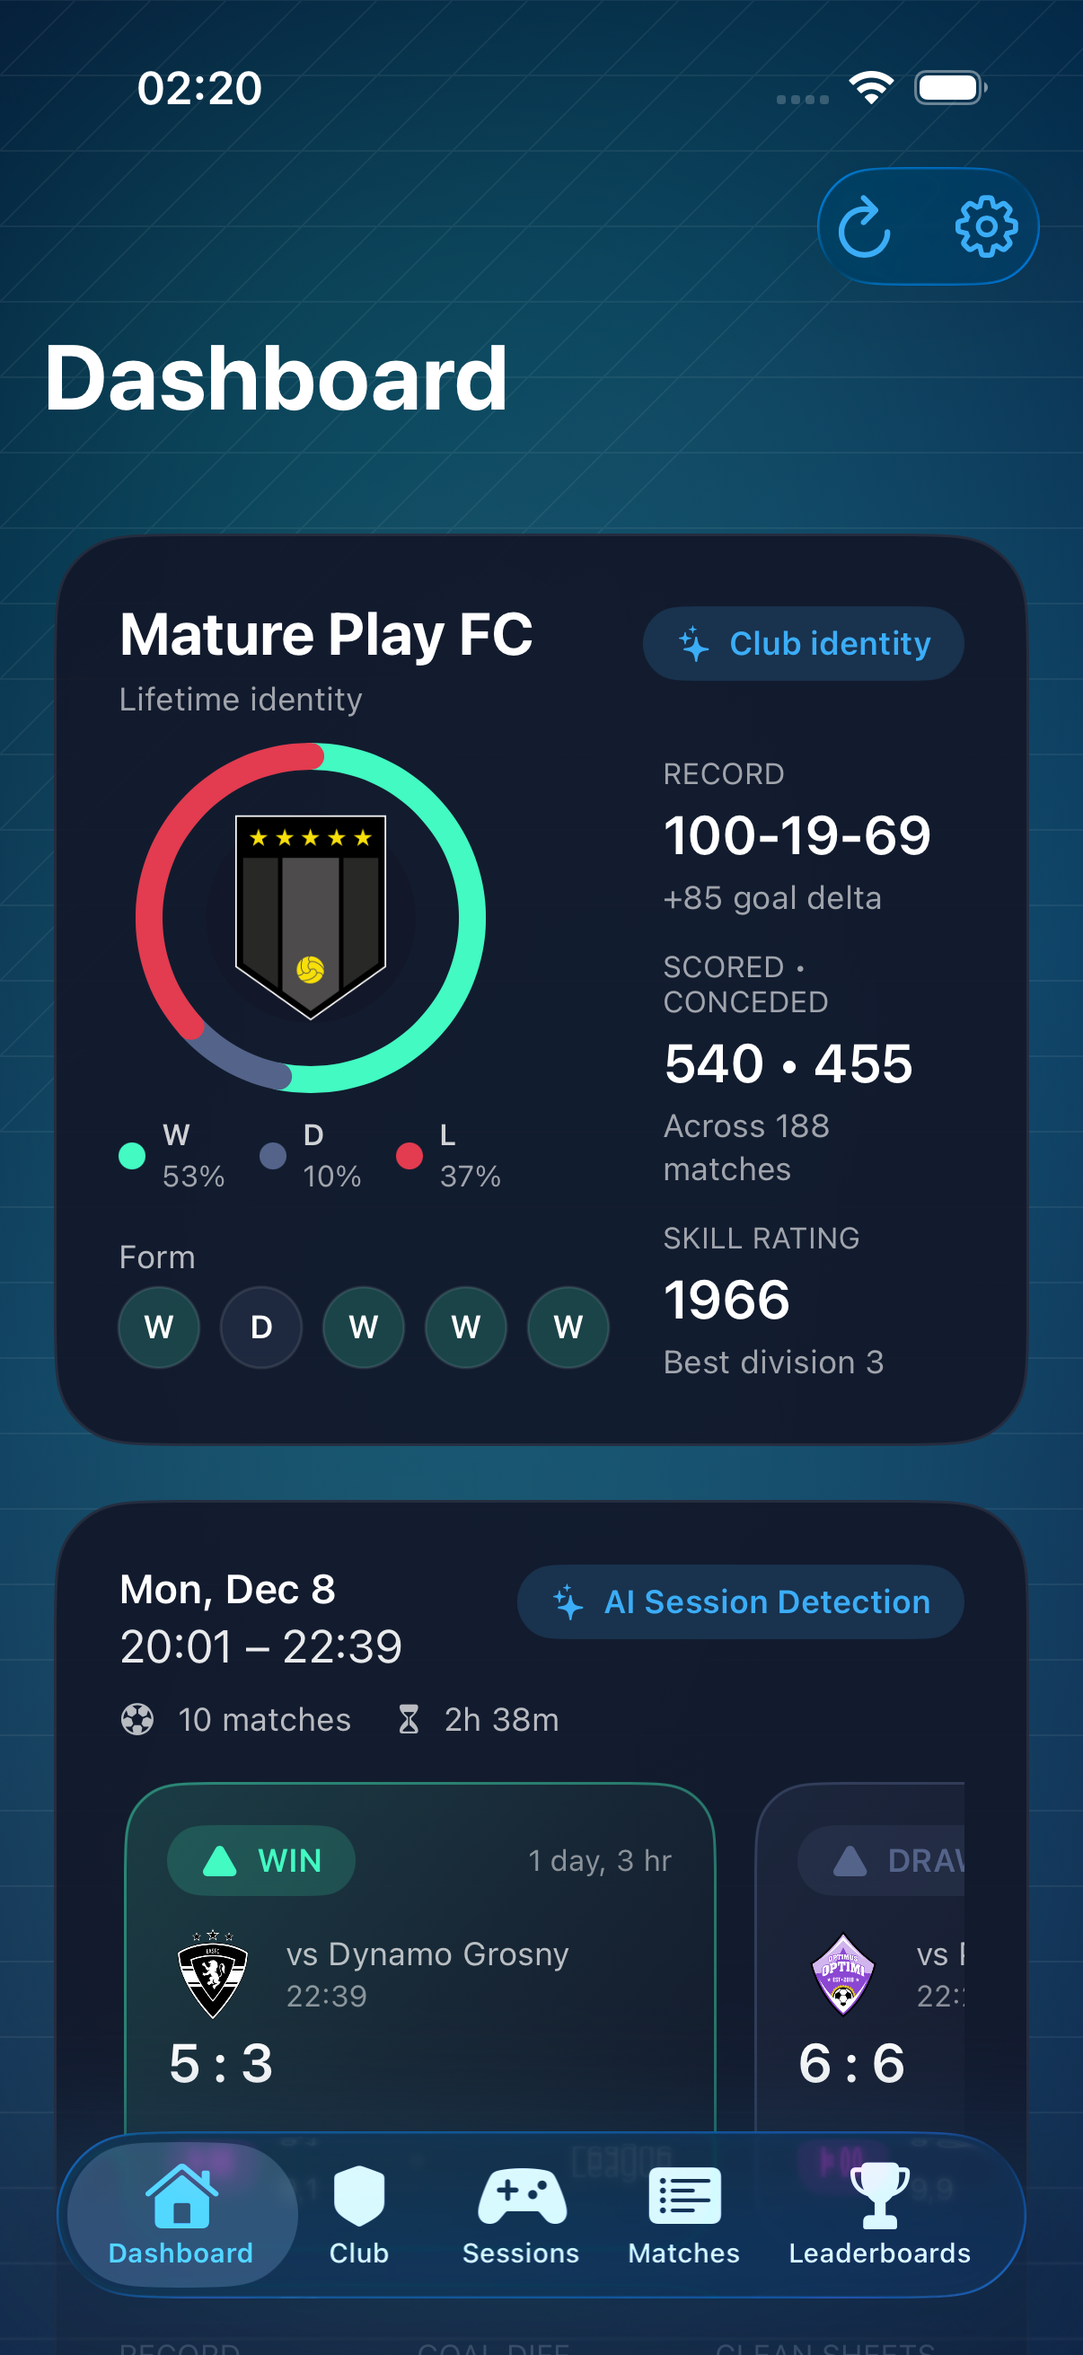
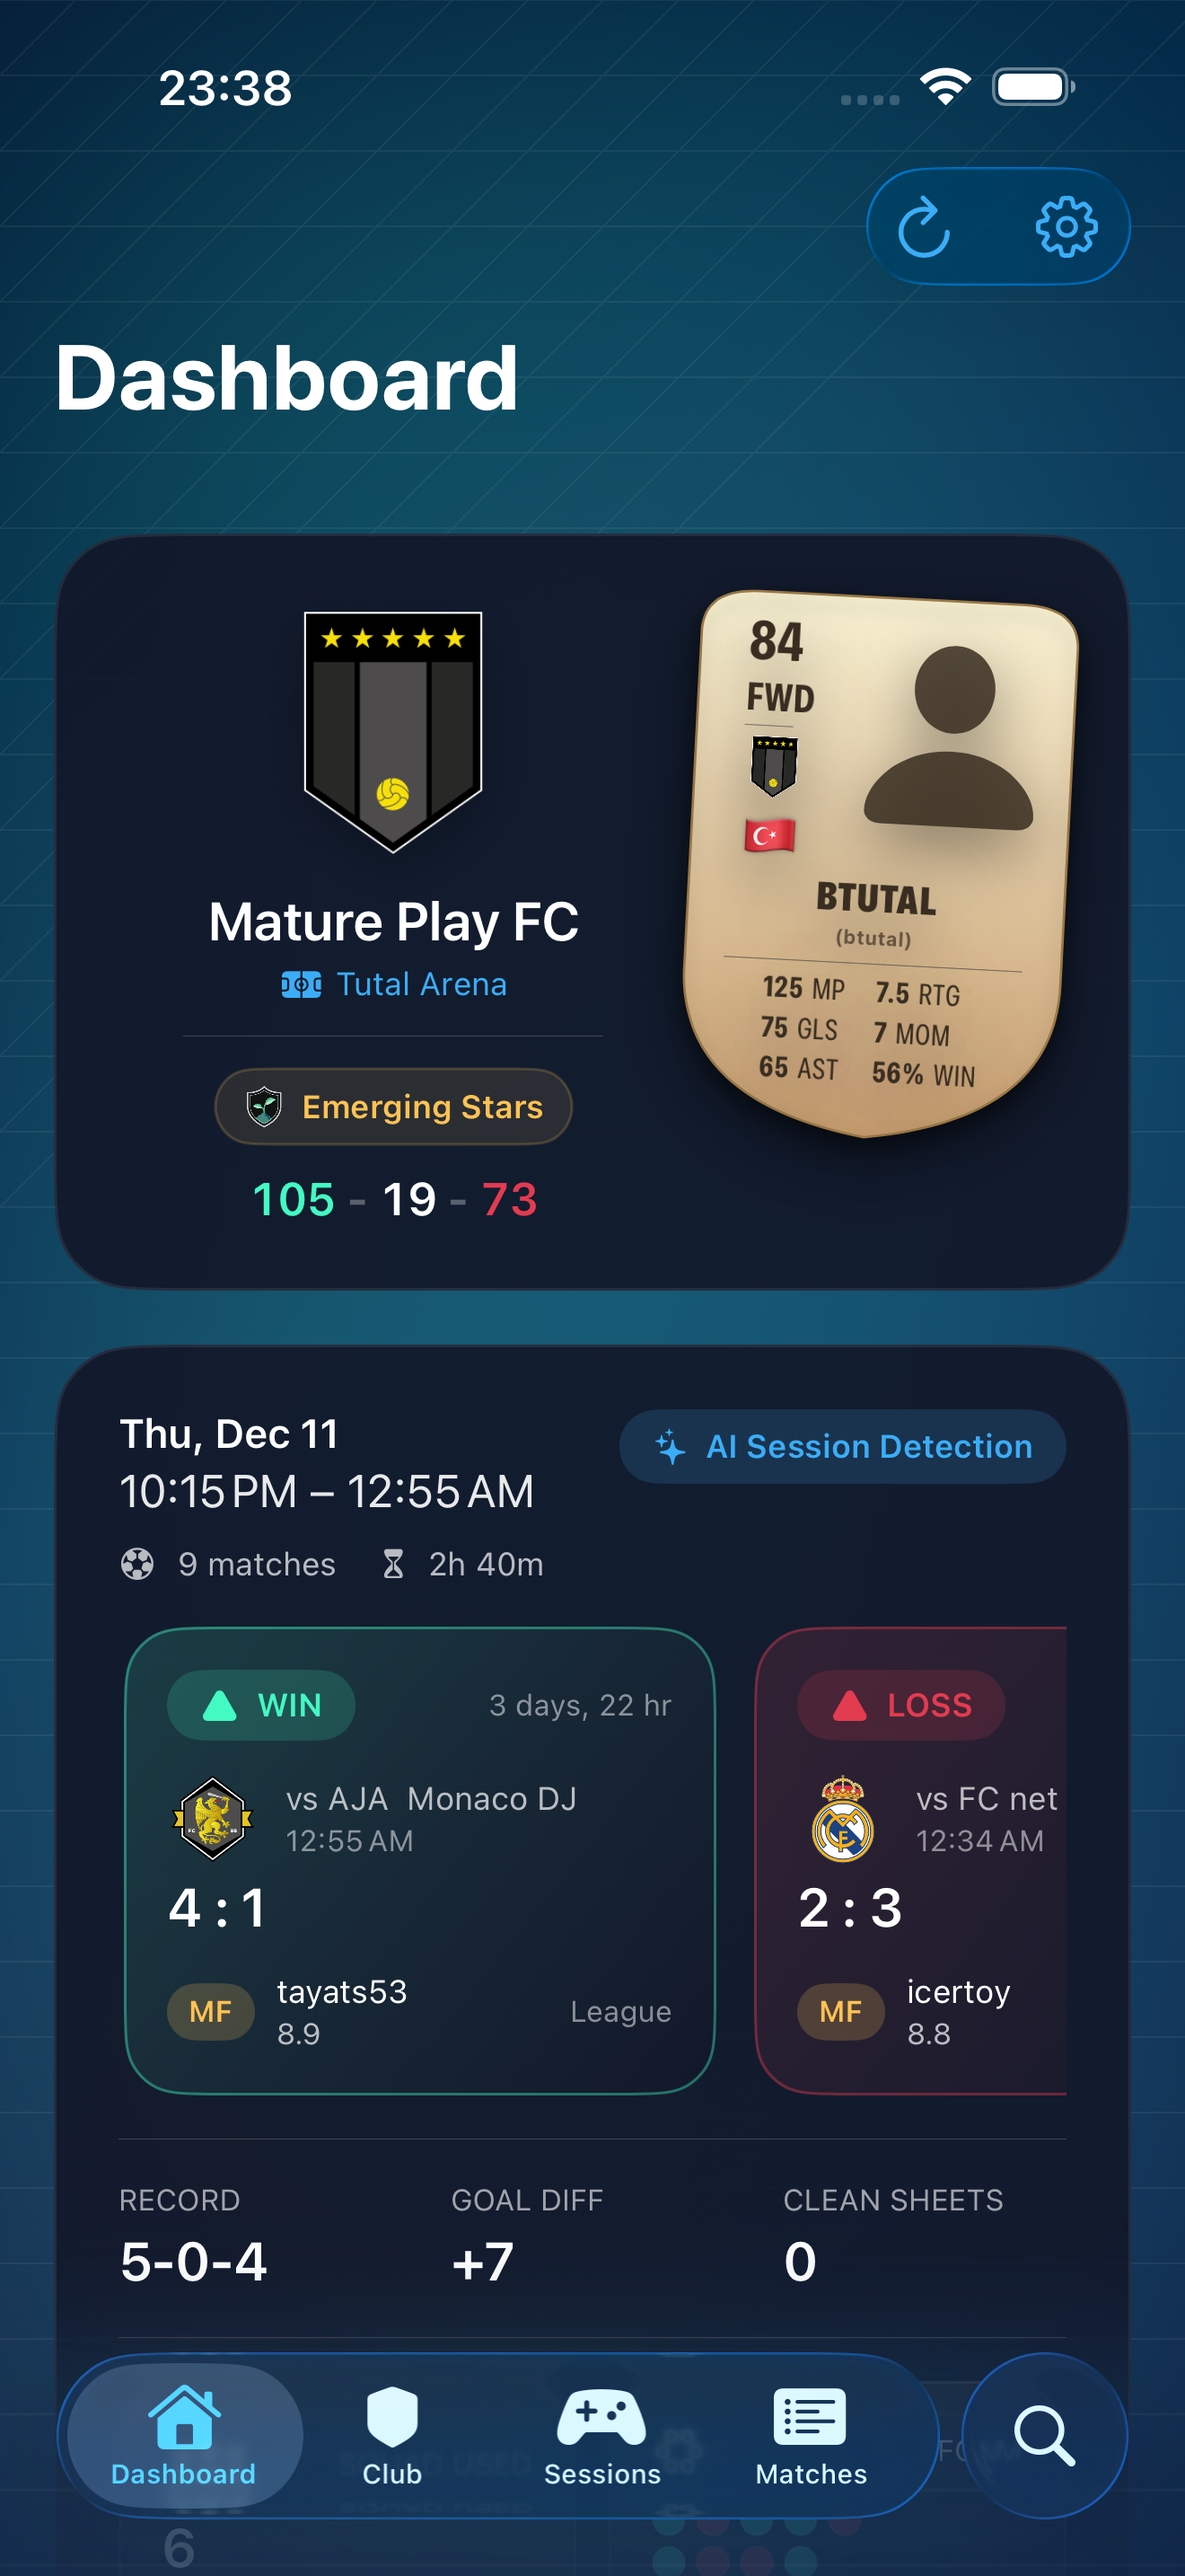
feat: Add Release Notes page and update assets for v1.0.2
- Add `src/whats-new.html` with detailed release notes for v1.0.2 and v1.0.1.
- Add "What's New" navigation link to Header and Footer in `index.html`.
- Update `vite.config.js` to build `whats-new` entry.
- Update `README.md` with specific run instructions.
- Replace screenshots with iPhone 17 Pro Max assets.
- Credit @setokop for reporting Issue #1.

diff --git a/src/whats-new.html b/src/whats-new.html
@@ -1,0 +1,233 @@
+<!doctype html>
+<html lang="en">
+  <head>
+    <meta charset="UTF-8" />
+    <link rel="icon" type="image/png" href="/assets/app-icon.png" />
+    <meta name="viewport" content="width=device-width, initial-scale=1.0" />
+    <meta name="description" content="FC Clubs App - Release Notes and Updates" />
+    <meta name="theme-color" content="#021230" />
+
+    <title>What's New | FC Clubs App</title>
+    
+    <link rel="preconnect" href="https://fonts.googleapis.com">
+    <link rel="preconnect" href="https://fonts.gstatic.com" crossorigin>
+    <link href="https://fonts.googleapis.com/css2?family=Inter:wght@400;500;600;700;800&display=swap" rel="stylesheet">
+    
+    <style>body { background-color: #021230; color: white; }</style>
+    
+    <link rel="stylesheet" href="/src/variables.css">
+    <link rel="stylesheet" href="/src/style.css">
+    
+    <style>
+        .updates-container {
+            max-width: 800px;
+            margin: 0 auto;
+            padding: 140px 20px 100px;
+        }
+        
+        .version-block {
+            margin-bottom: 80px;
+            position: relative;
+            padding-left: 40px;
+            border-left: 1px solid rgba(255,255,255,0.1);
+        }
+        
+        .version-number {
+            font-size: 2rem;
+            font-weight: 800;
+            margin-bottom: 10px;
+            display: flex;
+            align-items: center;
+            gap: 16px;
+        }
+        
+        .version-date {
+            font-size: 0.9rem;
+            color: rgba(255,255,255,0.4);
+            font-weight: 500;
+            margin-bottom: 24px;
+            display: block;
+        }
+        
+        .latest-badge {
+            background: var(--gradient-aura);
+            font-size: 0.75rem;
+            padding: 4px 12px;
+            border-radius: 99px;
+            color: #000;
+            font-weight: 700;
+            text-transform: uppercase;
+            letter-spacing: 0.05em;
+        }
+
+        .version-marker {
+            position: absolute;
+            left: -6px;
+            top: 12px;
+            width: 11px;
+            height: 11px;
+            border-radius: 50%;
+            background: var(--color-neon-green);
+            box-shadow: 0 0 10px rgba(66, 254, 194, 0.4);
+        }
+        
+        .version-block.past .version-marker {
+            background: rgba(255,255,255,0.2);
+            box-shadow: none;
+        }
+
+        .release-intro {
+            font-size: 1.1rem;
+            line-height: 1.6;
+            color: rgba(255,255,255,0.9);
+            margin-bottom: 30px;
+        }
+
+        .feature-list {
+            list-style: none;
+        }
+
+        .feature-item {
+            margin-bottom: 24px;
+        }
+
+        .feature-title {
+            font-weight: 700;
+            font-size: 1.1rem;
+            color: #fff;
+            margin-bottom: 6px;
+            display: block;
+        }
+
+        .feature-desc {
+            color: rgba(255,255,255,0.6);
+            line-height: 1.5;
+        }
+        
+        .fix-note {
+            margin-top: 30px;
+            padding: 20px;
+            background: rgba(255,255,255,0.03);
+            border-radius: 12px;
+            border: 1px solid rgba(255,255,255,0.05);
+            font-size: 0.95rem;
+            color: rgba(255,255,255,0.7);
+        }
+        
+        .fix-note a {
+            color: var(--color-electric-blue);
+            text-decoration: underline;
+        }
+    </style>
+  </head>
+  <body>
+    <div id="app">
+      <!-- Nav -->
+      <nav class="navbar">
+        <div class="container nav-content">
+          <a href="/" class="logo">
+            <img src="/assets/app-icon.png" alt="FC Clubs Logo" class="nav-logo-img">
+            <span>FC Clubs</span>
+          </a>
+          <div class="nav-links">
+            <a href="/">Home</a>
+            <a href="/src/whats-new.html">What's New</a>
+          </div>
+        </div>
+      </nav>
+
+      <!-- Content -->
+      <main class="updates-container">
+        <h1 class="section-title" style="text-align: left; margin-bottom: 60px;">What's New</h1>
+
+        <!-- v1.0.2 -->
+        <article class="version-block">
+            <div class="version-marker"></div>
+            <h2 class="version-number">
+                v1.0.2
+                <span class="latest-badge">Current Version</span>
+            </h2>
+            <span class="version-date">December 2025</span>
+            
+            <p class="release-intro">A major upgrade to the core experience. We've redesigned the dashboard and added powerful new scouting tools.</p>
+            
+            <ul class="feature-list">
+                <li class="feature-item">
+                    <span class="feature-title">Redesigned Dashboard</span>
+                    <span class="feature-desc">New unified "Identity Card" featuring your club crest, Prestige Badge, and your player card at a glance.</span>
+                </li>
+                <li class="feature-item">
+                    <span class="feature-title">Scout View</span>
+                    <span class="feature-desc">Analyze opponent clubs with detailed scouting reports—squad depth, key threats, and performance stats.</span>
+                </li>
+                <li class="feature-item">
+                    <span class="feature-title">Previous Meetings</span>
+                    <span class="feature-desc">Track your rivalry history with any club you've faced before.</span>
+                </li>
+                <li class="feature-item">
+                    <span class="feature-title">Search & Rankings</span>
+                    <span class="feature-desc">A dedicated tab for finding clubs and viewing consolidated Squad Rankings—know who the MVP is.</span>
+                </li>
+                <li class="feature-item">
+                    <span class="feature-title">Background Sync</span>
+                    <span class="feature-desc">Your matches now update automatically in the background so you're always up to date.</span>
+                </li>
+                 <li class="feature-item">
+                    <span class="feature-title">Glossary</span>
+                    <span class="feature-desc">Quick access to stat definitions from match details and rankings.</span>
+                </li>
+            </ul>
+            
+            <div class="fix-note">
+                <strong>Fixes:</strong> Theme-consistent icons and improved region display. <br>
+                Thanks to <a href="https://github.com/setokop" target="_blank">@setokop</a> for reporting <a href="https://github.com/btutal/fcclubs-web/issues/1" target="_blank">Issue #1</a>.
+            </div>
+        </article>
+
+        <!-- v1.0.1 -->
+        <article class="version-block past">
+            <div class="version-marker"></div>
+            <h2 class="version-number">v1.0.1</h2>
+            <span class="version-date">Initial Release</span>
+            
+            <p class="release-intro">Welcome to FC Clubs! The ultimate companion for Pro Clubs is finally here.</p>
+            
+            <ul class="feature-list">
+                <li class="feature-item">
+                    <span class="feature-title">Match Tracking</span>
+                    <span class="feature-desc">Detailed stats for every match, including possession, shots, and player ratings.</span>
+                </li>
+                <li class="feature-item">
+                    <span class="feature-title">Squad Cards</span>
+                    <span class="feature-desc">Beautiful, dynamic player cards that evolve as you play.</span>
+                </li>
+                <li class="feature-item">
+                    <span class="feature-title">Tactical Maps</span>
+                    <span class="feature-desc">Visualize formations and player positioning.</span>
+                </li>
+            </ul>
+        </article>
+
+      </main>
+
+      <!-- Footer -->
+      <footer class="footer">
+        <div class="container footer-content">
+          <div class="footer-col">
+            <span class="logo-text">FC Clubs</span>
+            <p class="footer-desc">Unofficial companion app. Not affiliated with EA Sports.</p>
+          </div>
+          <div class="footer-col links">
+            <a href="/privacy.html">Privacy Policy</a>
+            <a href="/terms.html">Terms of Service</a>
+            <a href="whats-new.html" style="color: #fff">What's New</a>
+             <a href="https://github.com/btutal/fcclubs-web/issues/new?template=bug_report.yml" target="_blank">Report a Bug</a>
+          </div>
+        </div>
+        <div class="footer-bottom text-center">
+          <p>&copy; 2025 FC Clubs App. All rights reserved.</p>
+        </div>
+      </footer>
+    </div>
+  </body>
+</html>

diff --git a/index.html b/index.html
@@ -31,6 +31,7 @@
             <span>FC Clubs</span>
           </a>
           <div class="nav-links">
+            <a href="/src/whats-new.html">What's New</a>
             <a href="#features">Features</a>
           </div>
         </div>
@@ -130,6 +131,7 @@
           <div class="footer-col links">
             <a href="/privacy.html">Privacy Policy</a>
             <a href="/terms.html">Terms of Service</a>
+            <a href="/src/whats-new.html">What's New</a>
             <a href="https://github.com/btutal/fcclubs-web/issues/new?template=bug_report.yml" target="_blank">Report a Bug</a>
             <a href="https://github.com/btutal/fcclubs-web/issues/new?template=feature_request.yml" target="_blank">Request Feature</a>
           </div>

diff --git a/vite.config.js b/vite.config.js
@@ -8,6 +8,7 @@ export default defineConfig({
         main: resolve(__dirname, 'index.html'),
         privacy: resolve(__dirname, 'privacy.html'),
         terms: resolve(__dirname, 'terms.html'),
+        whats_new: resolve(__dirname, 'src/whats-new.html'),
       },
     },
   },

diff --git a/README.md b/README.md
@@ -18,8 +18,14 @@ The official roadmap and feature status are maintained in the iOS project's Prod
 ## Development
 To run the website locally:
 1. Open terminal in this folder.
-2. Run `npm install` (if package.json exists) or serve the static files using a local server.
-3. Open `localhost` in your browser.
+2. Run `npm install` to install dependencies.
+3. Run `npm run dev` to start the local development server.
+4. Open the following links in your browser:
+    - **Home**: `http://localhost:5173/`
+    - **Release Notes**: `http://localhost:5173/src/whats-new.html`
+
+> [!NOTE]
+> The port `5173` is the default for Vite. If it's occupied, check the terminal output for the correct port.
 
 ## Feedback & Support
 This repository is also the central hub for:
